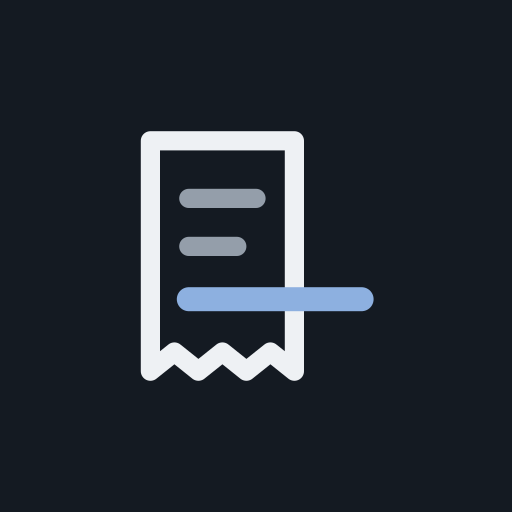
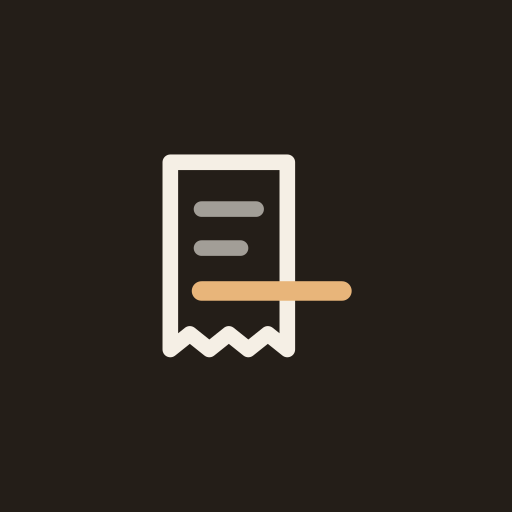
Jüri tur 26 (hepsi 9 civarı): uygulama ikonu sıcak palette (kahve-siyah zemin, krem fiş, amber Luca çizgisi; PNG'ler yeniden üretildi, önbellek v5); açık temada uyarı mürekkebi zeytine (#5c5800) kaydı, amberle karışmıyor; yanlış rakam dalgalı alt çizgi de taşıyor (renk körlüğünde amber ve kırmızı bi

Changed region(s): [[0.25, 0.25, 0.75, 0.75]]

diff --git a/src/app/globals.css b/src/app/globals.css
@@ -59,7 +59,7 @@
   --positive-soft: #e3f3ea;
   --negative: #b3261e;
   --negative-soft: #fbeceb;
-  --warn-ink: #715600;
+  --warn-ink: #5c5800;
   --warn-bg: #f8efcf;
   --warn-edge: #a98b2c; /* 3.2:1 on --raised: the edge is the note's only mark */
   --focus: var(--accent);
@@ -125,7 +125,7 @@
 }
 
 /* ---------- Tokens: dark. Owner, 2026-11-09 (from talkd): ground #0e0d0c, fields #171513, cards #211e1b, raised #2c2824,
-   cream ink #f5efe5 with secondary tones mixed from it, edges cream at 8-14%; blue stays the accent. Older notes below (YON 23.31; replaces the 23.27 seven-step ladder, whose mid-grey windows read as taupe slabs).
+   cream ink #f5efe5 with secondary tones mixed from it, edges cream at 8-14%; amber is the accent. Older notes below (YON 23.31; replaces the 23.27 seven-step ladder, whose mid-grey windows read as taupe slabs).
    Depth is lightness plus a light edge plus the lift shadow, never a mid-grey slab; saturation stays low and warm:
    #100f0d ground; #181715 fields (stage, auth split, showcase, closing call, the first path field, plate);
    #1e1c19 app surface and phone screen, #1f1e1b a product window or card (always above its field, path cards one step above theirs);
@@ -141,7 +141,7 @@
     --accent: #e8b57a; --accent-strong: #f0c896; --accent-soft: #352b20; --on-accent-field: #f5efe5;
     --primary: #f5efe5; --primary-hover: #ded8ce; --on-primary: #0e0d0c;
     --secondary: #2c2824; --secondary-hover: #36312b; --bar-control: #36312b;
-    --chip-on: var(--accent); --on-chip-on: #0e0d0c; --lift-control: #36312b; --lift-control-hover: #3f3933; /* the chosen chip is ledger blue; a control is 1.3:1 over its window */
+    --chip-on: var(--accent); --on-chip-on: #0e0d0c; --lift-control: #36312b; --lift-control-hover: #3f3933; /* the chosen chip is the amber accent; a control is 1.3:1 over its window */
     --deep: #12100e; --deep-raised: #211e1b; /* phone screens: darker than the CTA field they stand on (jury tur 9) */
     --positive: #6fcf9b; --positive-soft: #15281d; --negative: #f0948c; --negative-soft: #2e1a19;
     --warn-ink: #e3cf72; --warn-bg: #26230f; --warn-edge: #8c7a35;
@@ -166,7 +166,7 @@
   --accent: #e8b57a; --accent-strong: #f0c896; --accent-soft: #352b20; --on-accent-field: #f5efe5;
   --primary: #f5efe5; --primary-hover: #ded8ce; --on-primary: #0e0d0c;
   --secondary: #2c2824; --secondary-hover: #36312b; --bar-control: #36312b;
-  --chip-on: var(--accent); --on-chip-on: #0e0d0c; --lift-control: #36312b; --lift-control-hover: #3f3933; /* the chosen chip is ledger blue; a control is 1.3:1 over its window */
+  --chip-on: var(--accent); --on-chip-on: #0e0d0c; --lift-control: #36312b; --lift-control-hover: #3f3933; /* the chosen chip is the amber accent; a control is 1.3:1 over its window */
   --deep: #12100e; --deep-raised: #211e1b; /* phone screens: darker than the CTA field they stand on (jury tur 9) */
   --positive: #6fcf9b; --positive-soft: #15281d; --negative: #f0948c; --negative-soft: #2e1a19;
   --warn-ink: #e3cf72; --warn-bg: #26230f; --warn-edge: #8c7a35;
@@ -229,7 +229,7 @@ h3 { font-size: var(--fs-body); font-weight: var(--w-strong); }
 .t-small { font-size: var(--step-small); }
 .num, .num-font, .tnum { font-variant-numeric: tabular-nums; }
 .num { text-align: right; }
-/* The product's colour rule: what goes to Luca is ledger blue. */
+/* The product's colour rule: what goes to Luca is the amber accent. */
 .to-luca { color: var(--accent); font-variant-numeric: tabular-nums; }
 .from-receipt { color: var(--thermal-ink); font-variant-numeric: tabular-nums; }
 .muted { color: var(--muted); }
@@ -366,6 +366,7 @@ tbody tr:last-child td { border-bottom: 0; }
 .balance { font-weight: var(--w-strong); font-variant-numeric: tabular-nums; }
 .balance-ok { color: var(--positive); }
 .balance-off { color: var(--negative); }
+.num.balance-off, dd.balance-off, td.balance-off { text-decoration: underline wavy; text-decoration-thickness: 1px; text-underline-offset: 3px; }
 .phone-only { display: none; }
 @media (max-width: 720px) {
   h1 { font-size: 22px; }

diff --git a/public/sw.js b/public/sw.js
@@ -1,6 +1,6 @@
 // Accountie service worker: only an offline page for navigations. Nothing else is cached,
 // so receipts, rules and session pages always come from the server (no user data in Cache Storage).
-const CACHE = "cevrimdisi-v4";
+const CACHE = "cevrimdisi-v5";
 const OFFLINE = "/cevrimdisi.html";
 
 self.addEventListener("install", (event) => {

diff --git a/docs/design/YON.md b/docs/design/YON.md
@@ -1,11 +1,23 @@
 # Accountie tasarım yönü
 
 Durum: bağlayıcı. Tarih: 2026-11-03. Her UI geliştiricisi ve jüri üyesi işe başlamadan bu belgeyi baştan sona okur.
-Bu belge yalnızca yönü belirler; kod içermez. Kurallar şu sırayla üstündür: `INSTRUCTIONS.md` (mavi palet, güvenlik, yasaklar) > taste-skill house rules > bu belge > yön kâğıtlarındaki blueprint'ler.
+Bu belge yalnızca yönü belirler; kod içermez. Kurallar şu sırayla üstündür: `INSTRUCTIONS.md` (sıcak palet ve amber vurgu, güvenlik, yasaklar) > taste-skill house rules > bu belge > yön kâğıtlarındaki blueprint'ler.
 
 Kullanılan skill'ler (Skill aracıyla çağrıldı): `taste-skill:design-taste-frontend` (SKILL.md ve `references/app-screens.md` tamamı okundu; `copy.md`, `motion.md` ilgili bölümleri) ve `web-design-guidelines` (Vercel Web Interface Guidelines, `command.md` güncel sürümü çekildi, bölüm 11'e kontrol listesi olarak aktarıldı).
 
 Skill klasörü: `C:\Users\Yusuf Berat Negiz\.claude\plugins\cache\taste-skill\taste-skill\2.1.5\skills\taste-skill` (aşağıda `<skill>`). Script'ler repo kökünden çalışır, çalışma dosyaları `.taste-skill/` altına düşer (gitignore'da).
+
+## 24. Sıcak palet ve amber vurgu (2026-11-09, kullanıcı kararı; 0'daki vurgu satırının, 6'daki renk tokenlarının, 23.1 'mavi kimlik değişmez' ve 23.27/23.31 nötr ve koyu merdiven kararlarının üstündedir)
+
+Kullanıcı başka uygulamasının (talkd) sıcak paletini istedi; mavi vurguyu "alakasız" buldu. Jüri tur 25 ve 26 ile ayarlandı.
+
+- Açık: zemin `#f8f4ed` (sakin krem; `#fbf5ea` fazla sarı bulundu), kart beyaz, alanlar `#efe9df` / `#e4dccf`, mürekkep `#241e18`, ikincil `#58524a`, soluk `#655e57`.
+- Koyu: zemin `#0e0d0c`, alan `#171513`, kart `#211e1b`, yükseltilmiş `#2c2824`, etkin `#332e29`, mürekkep `#f5efe5`, ikincil `#b4b0a8`, soluk `#a29e97`; kenarlar krem %8-14.
+- Vurgu amber: açıkta `#8f5718` (zeminde 5.4:1, talkd'nin `#b9792e`'si küçük metinde AA geçmez), koyuda `#e8b57a`. Luca'ya giden rakam, bağlantı, seçili çip, odak halkası ve fişin yolundaki Luca alanı (`#563412`, koyuda `#3d2a15`) amberdir.
+- Uyarı vurguyla karışmasın diye zeytin/hardal: açıkta `#5c5800` / `#f8efcf` / kenar `#a98b2c`; koyuda `#e3cf72` / `#26230f`. Hata kırmızı kalır.
+- Renk körlüğünde amber ve kırmızı birleşir: yanlış rakam (`.balance-off` tutar hücreleri) ayrıca dalgalı alt çizgi taşır; renk tek işaret değildir.
+- Uygulama ikonu: zemin `#241e18`, fiş krem, satırlar `#a29e97`, Luca çizgisi amber.
+- Mavi geri gelmez; amber kararı ancak kullanıcı değiştirir.
 
 ## 0. Kısa özet
 
@@ -15,7 +27,7 @@ Skill klasörü: `C:\Users\Yusuf Berat Negiz\.claude\plugins\cache\taste-skill\t
 | Hero | Control that reads the page: iki ton yarı, sağda çalışan fiş parçası |
 | Panel stili | `achromatic-ledger` (Renksiz defter, açık), seed **1951193909**, kabuk: icon rail |
 | Yazı | Stack Sans Headline (yalnız büyük başlıklar, 300) + Stack Sans Text (her şey). İki aile. |
-| Vurgu | Defter mavisi `#2b5a9a` (koyu temada `#8db0e0`). Mavi = Luca'ya giden rakam. |
+| Vurgu | Amber `#8f5718` (koyu temada `#e8b57a`). Amber = Luca'ya giden rakam. Bölüm 24 (2026-11-09) defter mavisinin yerine geçer. |
 | Fikir | Fişin termal baskısı, ziyaretçinin elinde Luca Fiş Detayı satırlarına dönüşür; Luca'ya giden her rakam defter mavisiyle yazılır. |
 | Canlı öğe | Hero'daki "fiş tezgâhı": örnek fiş ve ödeme şekli seçilir, satırlar `buildJournalLines` ile gerçek kurallardan hesaplanır, "Satırları kopyala" gerçekten panoya Luca sırasında yazar. |
 | İmza öğe (panel) | Fiş izi: bir yevmiye satırı seçilince fişte o rakamın geldiği satır işaretlenir; listede Luca dosyası doluluk çizgisi (50 fiş / 400 satır). |

diff --git a/INSTRUCTIONS.md b/INSTRUCTIONS.md
@@ -12,7 +12,7 @@ Design: don't look "vibecoded"
 Avoid these generic AI-generated UI patterns:
 
 No purple-to-blue gradients. Pick a deliberate, restrained palette (one accent color, neutrals).
-Palette: blue tones (user's choice). One deliberate, slightly desaturated blue as the accent (think ink/ledger blue, not the default Tailwind blue-500/600 or a neon blue), cool neutrals, no gradients; check AA contrast in both themes.
+Palette (user's choice, 2026-11-09, replaces the earlier blue palette): warm neutrals (calm cream ground, white cards, sand fields, brown-black ink in light; warm black with cream ink in dark) and one amber accent for what goes to Luca, links, the chosen chip and focus; warnings mustard/olive, errors red; no gradients; check AA contrast in both themes.
 No gradient hero text. Headlines are solid color; hierarchy comes from size, weight, and spacing.
 No emojis in headings or as decorative bullets.
 Not Inter everywhere. Choose a typeface with character for the brand; pair at most two families.
